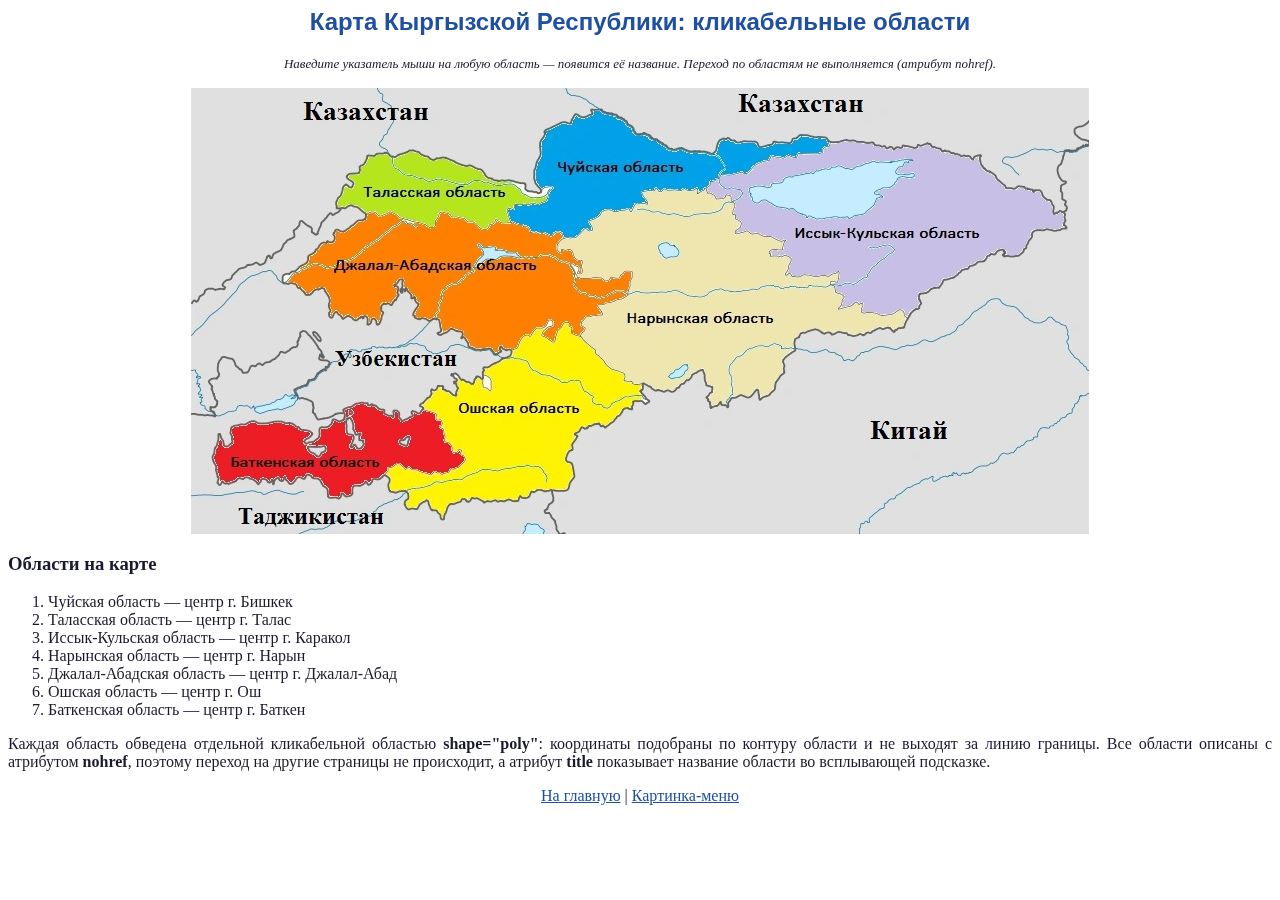
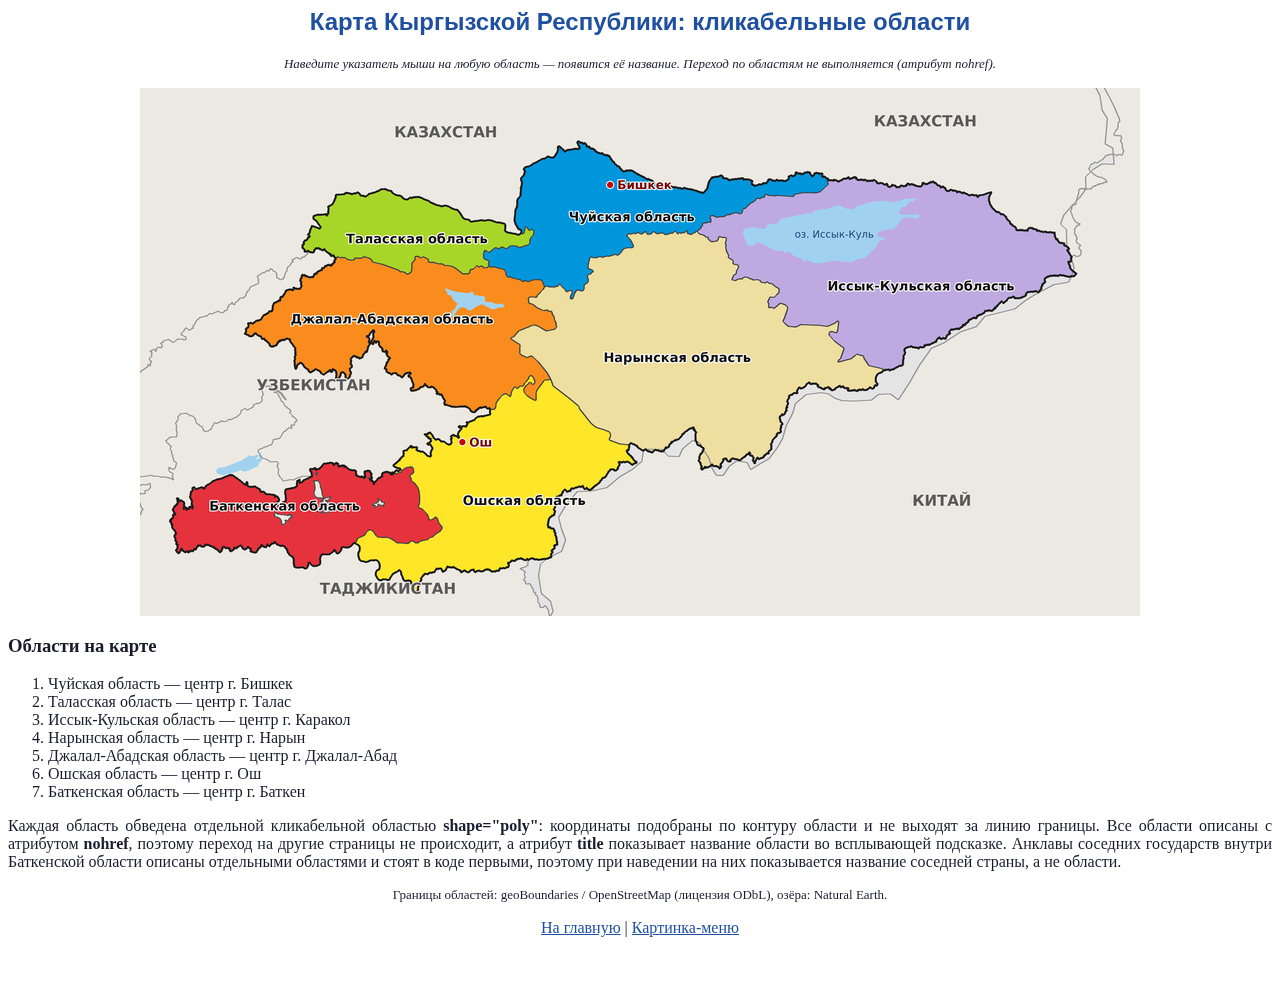
Task 6: redraw Kyrgyzstan map from real boundary data (geoBoundaries/OSM) — crisp borders, exact per-oblast poly coords, enclave areas

Changed region(s): [[0.0, 0.0622, 1.0, 0.9333], [0.25, 0.0, 0.75, 0.0311], [0.6562, 0.4667, 0.7812, 0.56]]

diff --git a/lab2/karta.html b/lab2/karta.html
@@ -8,16 +8,19 @@
 		Переход по областям не выполняется (атрибут nohref).</i></font></p>
 
 		<p align="center">
-			<img src="images/karta.jpg" width="898" height="446" usemap="#oblasti" border="0"
+			<img src="images/karta.jpg" width="1000" height="528" usemap="#oblasti" border="0"
 				alt="Карта Кыргызстана с областями" title="Карта Кыргызстана">
 			<map name="oblasti">
-				<area shape="poly" coords="320,124,342,140,384,146,392,138,399,139,397,130,412,120,439,119,452,112,451,101,508,101,526,84,553,83,576,66,625,63,632,55,609,50,597,57,566,61,561,56,531,54,524,69,479,64,442,48,430,34,405,25,358,45,348,93,352,98,363,97,360,112,327,118" nohref title="Чуйская область" alt="Чуйская область">
-				<area shape="poly" coords="149,117,162,114,175,122,185,121,189,125,203,122,240,138,245,125,255,122,282,131,293,138,302,130,315,132,313,120,322,114,351,111,336,111,320,98,308,99,307,95,298,98,288,84,254,72,239,74,218,66,205,72,197,69,180,71,168,88,160,88,165,99,155,100" nohref title="Таласская область" alt="Таласская область">
-				<area shape="poly" coords="519,100,542,107,553,133,547,146,594,153,581,164,601,168,598,183,648,183,652,217,667,213,689,225,712,220,716,232,733,203,776,175,821,168,842,143,873,138,872,116,862,122,849,103,814,101,787,79,788,70,739,56,694,61,677,52,640,53,630,67,583,70,559,87,531,87" nohref title="Иссык-Кульская область" alt="Иссык-Кульская область">
-				<area shape="poly" coords="364,148,372,147,368,165,387,170,380,176,385,192,441,183,434,208,409,217,388,247,451,299,481,300,512,279,520,314,562,299,572,305,608,242,662,245,701,239,712,230,706,222,668,225,663,215,647,221,649,208,636,197,644,186,595,187,598,171,577,167,590,155,546,146,539,110,513,103,453,105,456,117,418,123,388,151" nohref title="Нарынская область" alt="Нарынская область">
-				<area shape="poly" coords="102,192,120,204,136,198,143,220,189,230,190,215,214,189,230,213,228,228,247,227,254,240,269,239,281,256,305,261,324,257,355,230,362,237,352,245,360,250,371,232,387,244,388,231,406,224,404,214,430,207,436,185,416,194,381,191,376,175,387,174,363,164,367,147,307,136,290,144,254,127,238,142,181,127,148,145" nohref title="Джалал-Абадская область" alt="Джалал-Абадская область">
-				<area shape="poly" coords="446,299,430,296,374,238,363,256,345,243,333,251,322,273,295,283,301,304,292,303,288,293,283,299,269,295,267,309,249,302,235,316,254,332,256,351,273,361,276,372,254,387,207,377,199,384,202,398,220,399,218,416,238,408,251,423,270,407,324,409,342,398,373,398,379,384,371,367,380,344,403,332,413,335,445,310" nohref title="Ошская область" alt="Ошская область">
-				<area shape="poly" coords="269,370,249,354,240,326,208,335,204,326,195,330,172,318,162,321,165,341,175,352,170,363,157,360,152,335,131,342,123,355,134,355,137,363,129,370,112,356,116,345,100,337,45,340,45,356,35,361,31,354,26,368,36,391,101,391,120,384,146,406,202,374,237,384,254,382" nohref title="Баткенская область" alt="Баткенская область">
+				<area shape="poly" coords="174,392,175,399,173,404,174,407,177,410,182,411,182,412,181,412,180,414,182,416,183,417,180,419,180,422,177,424,182,426,183,422,184,426,190,424,190,423,192,423,193,421,191,419,192,418,186,417,188,416,188,414,187,413,189,413,191,408,185,409,184,410,180,395,177,392,175,392" nohref title="Анклав (Узбекистан)" alt="Анклав (Узбекистан)">
+				<area shape="poly" coords="232,416,233,418,235,418,235,420,238,418,239,417,243,419,245,414,242,413,241,412,238,410,238,413" nohref title="Анклав (Узбекистан)" alt="Анклав (Узбекистан)">
+				<area shape="poly" coords="134,426,135,429,140,431,141,433,141,435,142,437,145,436,146,433,148,433,150,430,151,431,152,430,153,427,151,427,150,426,148,427,138,426,135,424" nohref title="Анклав (Таджикистан)" alt="Анклав (Таджикистан)">
+				<area shape="poly" coords="350,178,363,180,366,183,368,188,380,191,383,193,386,192,389,193,395,191,401,191,403,193,405,198,408,197,414,198,421,195,427,203,430,202,433,202,433,205,431,209,432,210,436,202,443,202,443,197,447,194,447,187,452,183,447,180,448,175,450,169,454,169,460,168,463,168,474,166,478,166,484,160,492,159,493,158,491,154,486,148,488,145,494,144,495,145,497,144,502,145,505,143,507,143,508,146,510,145,513,143,517,145,521,144,527,146,533,144,535,142,538,145,539,144,541,144,544,144,547,142,548,143,548,145,552,145,560,140,562,137,562,135,570,133,570,128,571,127,577,129,584,128,595,124,601,125,602,121,610,115,617,110,624,109,624,107,625,106,634,107,636,106,653,108,654,105,664,104,676,104,679,103,687,96,686,93,687,91,684,89,682,89,681,86,676,86,672,89,669,85,665,85,663,87,657,86,653,89,651,88,650,89,649,92,646,94,639,94,637,93,634,94,630,92,627,96,615,99,611,97,611,93,609,93,603,92,602,91,589,93,586,91,582,91,581,88,573,90,570,94,568,101,563,106,544,101,542,101,529,99,523,99,511,93,506,92,497,87,493,84,487,83,483,84,479,79,474,77,469,69,455,64,453,62,446,59,445,56,443,56,439,54,441,60,439,62,428,63,425,64,419,59,419,63,415,70,412,70,408,69,385,81,386,85,382,91,383,95,382,107,378,112,375,132,377,136,379,140,382,142,383,145,385,138,387,139,390,142,392,141,394,143,394,146,391,151,391,156,389,157,380,160,371,159,367,161,362,160,359,161,355,161,350,165,345,163,344,170,350,173" nohref title="Чуйская область" alt="Чуйская область">
+				<area shape="poly" coords="163,159,165,161,166,163,168,162,173,164,176,159,179,159,183,162,185,161,191,166,191,167,194,167,195,169,198,168,201,169,205,169,211,171,213,171,215,169,221,169,224,168,229,169,233,174,243,176,268,185,270,184,271,175,274,171,274,169,276,168,279,168,281,169,283,168,289,171,289,173,294,174,303,175,305,177,313,177,323,185,328,185,329,184,329,182,333,180,336,177,339,178,342,177,344,179,347,179,348,178,348,174,343,170,343,164,344,162,350,163,355,159,359,160,362,158,367,160,369,157,373,157,380,159,388,156,393,144,391,142,389,143,386,140,385,144,383,147,381,146,378,147,368,145,364,142,364,136,349,133,331,134,323,131,317,123,306,118,302,119,297,118,279,110,270,110,266,112,263,111,260,109,255,107,251,104,245,102,241,102,230,106,226,109,220,108,218,105,212,107,206,106,204,107,197,107,193,117,189,119,189,125,187,128,186,128,186,127,174,128,174,131,178,133,182,139,180,141,173,139,170,145,169,147,171,149,165,153" nohref title="Таласская область" alt="Таласская область">
+				<area shape="poly" coords="558,143,561,146,568,149,569,151,571,153,577,152,579,148,587,149,586,156,587,158,587,159,589,169,594,172,594,175,598,176,599,178,597,186,595,188,593,191,595,192,605,188,614,191,620,192,622,194,625,194,627,193,633,195,640,200,639,206,635,210,630,210,629,214,629,219,634,219,641,215,647,218,648,220,648,223,644,233,649,238,656,238,662,236,687,237,698,232,699,235,697,245,691,244,690,246,695,253,705,260,701,271,699,273,711,270,717,265,724,267,729,277,742,280,744,281,749,281,750,282,762,277,763,268,764,265,763,262,765,260,771,258,779,259,780,258,783,259,784,256,789,256,795,253,799,249,800,249,801,250,803,249,805,250,806,247,809,245,808,244,811,241,819,240,822,236,824,236,826,234,828,231,834,229,836,229,837,227,843,225,845,222,852,222,861,213,864,214,868,209,873,208,876,210,881,209,885,207,887,203,896,202,898,203,900,201,902,196,904,194,904,191,907,188,921,186,929,188,933,188,935,186,929,180,927,174,930,173,931,169,926,162,928,161,924,158,923,156,918,155,917,152,915,151,914,146,897,144,896,142,890,141,887,143,876,143,875,139,870,136,869,134,863,127,861,127,859,125,856,124,851,120,848,112,848,109,850,105,840,108,838,110,836,108,829,108,825,106,819,104,817,105,816,104,812,104,811,103,810,104,807,104,803,99,800,100,793,94,788,97,783,96,781,99,772,97,770,98,768,96,766,99,762,98,760,100,756,100,753,98,749,100,747,98,747,97,745,98,741,96,737,96,734,93,733,94,727,94,725,93,717,93,715,90,711,92,708,90,704,91,698,94,695,93,694,93,688,93,688,97,681,104,677,105,664,105,655,107,653,109,636,108,634,109,626,107,625,110,618,111,611,116,604,122,602,126,596,125,584,129,577,130,571,128,571,135,563,136,563,138" nohref title="Иссык-Кульская область" alt="Иссык-Кульская область">
+				<area shape="poly" coords="372,250,381,256,381,266,387,269,392,267,399,273,408,284,414,298,439,317,440,320,452,335,456,338,470,344,471,347,470,352,480,355,489,356,491,354,497,357,502,362,506,360,512,364,516,361,523,363,525,359,528,358,531,353,538,351,542,346,548,341,554,339,554,341,557,344,556,352,558,356,561,357,565,360,564,364,561,367,560,373,563,379,562,381,564,378,568,379,572,376,574,377,577,377,580,379,580,376,583,372,583,371,586,370,589,373,592,370,600,371,609,363,611,365,611,367,613,367,615,370,614,373,617,369,618,369,619,370,623,369,624,367,628,365,630,361,630,356,632,351,635,348,637,345,640,344,640,338,641,336,639,333,639,329,642,326,644,326,646,322,645,320,647,316,646,313,648,307,654,304,656,304,656,302,658,299,663,299,666,295,669,294,671,295,677,295,679,297,679,298,684,300,684,299,688,298,693,301,699,297,701,298,703,297,705,299,709,299,709,302,715,301,717,302,723,300,724,301,726,301,730,298,732,300,735,297,736,297,735,293,735,288,738,285,743,282,728,278,723,269,717,267,712,271,697,274,703,261,694,254,688,246,689,244,690,243,696,244,698,234,688,239,662,237,655,240,648,239,642,233,646,222,646,219,641,216,634,221,629,221,628,219,627,213,629,209,630,208,634,208,638,204,638,201,632,197,627,195,625,196,622,195,620,193,613,193,605,190,596,193,591,192,591,190,593,186,595,185,598,179,593,176,592,173,588,170,585,157,586,150,580,149,578,153,571,154,568,152,567,150,560,147,557,144,551,147,548,147,546,144,545,146,540,145,538,147,535,144,533,146,527,147,520,145,517,146,514,145,511,147,508,147,505,144,502,147,497,146,495,147,494,146,488,147,494,158,493,160,485,161,479,168,475,167,463,170,460,169,454,171,451,170,449,180,453,182,454,184,449,188,449,194,445,198,444,203,442,204,437,203,433,212,430,211,431,203,426,204,420,197,418,199,414,200,407,199,405,200,397,210,390,210,390,214,398,220,402,221,408,221,409,223,412,223,417,236,418,239,416,241,406,244,394,238,379,244,374,250" nohref title="Нарынская область" alt="Нарынская область">
+				<area shape="poly" coords="106,245,111,248,116,245,118,247,121,248,123,250,125,250,132,258,136,257,137,253,140,252,144,251,147,250,151,251,151,253,156,260,157,267,155,273,156,279,156,277,160,274,162,274,170,283,176,280,180,282,184,286,189,281,191,282,192,281,194,281,197,283,197,290,199,289,201,284,203,283,206,286,207,290,209,288,210,285,209,281,211,279,210,276,210,271,214,267,218,269,222,269,224,264,226,263,229,256,228,253,228,251,226,248,228,247,232,242,234,242,235,244,234,246,234,250,232,253,232,254,233,255,232,254,234,252,240,254,240,257,243,260,243,263,247,262,248,264,248,266,251,270,246,280,247,281,248,284,252,286,253,284,257,285,258,286,262,288,265,285,270,284,272,285,269,288,273,291,274,297,274,300,272,301,272,302,278,300,285,295,289,299,291,298,294,299,298,304,298,305,302,306,306,313,306,316,315,318,325,318,334,324,340,319,346,318,348,320,349,319,351,321,354,321,355,315,362,307,366,305,370,308,373,300,375,298,377,300,379,298,382,297,390,287,392,287,393,288,396,295,393,297,390,295,386,299,385,303,387,307,395,312,395,305,397,301,404,292,409,291,406,285,392,269,391,269,387,270,380,267,379,266,379,257,371,252,370,250,373,248,378,242,394,236,399,238,407,242,414,240,416,239,411,224,408,224,407,223,401,223,388,215,388,211,389,209,390,208,396,209,403,200,402,194,400,193,394,193,389,195,386,193,383,194,380,192,367,190,366,188,365,183,363,182,349,179,348,180,344,181,342,179,339,180,337,179,334,182,331,183,331,185,329,187,322,187,312,179,304,178,302,177,294,175,288,175,288,172,283,170,280,171,278,169,276,170,276,172,273,176,273,181,272,184,267,187,243,177,233,175,229,171,224,169,222,171,215,171,214,173,211,173,205,171,198,170,196,172,196,174,192,178,188,178,186,179,183,181,182,183,175,187,173,190,169,190,163,188,161,192,162,194,162,199,160,202,158,202,154,201,153,203,150,202,146,203,144,209,141,210,141,213,135,216,132,224,130,224,129,226,124,228,122,232,116,234,113,236,111,236,109,236,109,240,107,241" nohref title="Джалал-Абадская область" alt="Джалал-Абадская область">
+				<area shape="poly" coords="216,455,221,459,219,466,221,472,226,473,232,472,236,472,239,473,241,478,240,481,237,484,237,487,239,491,243,491,249,491,252,485,259,481,262,483,265,492,271,492,272,496,275,498,275,502,276,503,282,488,284,485,287,485,294,483,297,480,301,480,303,483,305,482,308,478,312,479,314,478,322,483,324,482,328,484,333,481,335,483,339,482,342,483,348,480,352,483,355,483,358,482,360,480,367,479,368,474,369,474,371,472,374,472,378,470,381,470,385,472,392,470,399,471,407,470,410,469,410,466,412,464,411,462,414,460,414,457,416,456,413,442,413,441,408,440,407,437,408,430,413,426,414,423,413,421,418,412,415,410,416,408,421,407,422,403,425,401,428,403,430,402,431,400,433,400,443,397,445,400,447,399,450,401,458,395,462,389,465,388,470,381,476,381,479,377,478,373,487,373,492,376,495,374,487,365,486,363,488,362,488,358,480,357,469,353,470,347,469,345,455,340,452,337,439,321,438,318,413,299,410,292,405,293,398,302,397,305,397,313,393,312,386,308,384,305,383,301,389,294,391,294,393,296,394,294,392,289,390,288,383,299,380,299,377,301,375,300,374,301,371,309,369,309,366,307,363,308,357,316,356,320,355,322,351,322,351,327,343,329,338,329,335,333,328,335,327,339,323,339,319,346,320,350,318,350,313,348,312,348,312,355,311,357,307,357,298,352,295,353,289,345,288,347,287,347,292,351,292,354,289,356,291,356,293,360,291,365,292,369,287,368,282,364,281,365,276,363,276,360,271,360,267,363,264,363,264,368,254,377,261,380,261,382,259,384,261,383,266,379,272,378,274,380,274,385,270,388,272,393,275,394,279,399,280,403,280,413,279,419,283,421,287,425,290,431,292,431,295,428,298,430,303,440,301,444,293,450,288,452,280,454,278,456,275,456,271,454,269,456,265,456,257,456,249,451,237,450,233,444,229,443,225,448,218,451" nohref title="Ошская область" alt="Ошская область">
+				<area shape="poly" coords="31,433,33,436,33,439,37,445,35,449,38,454,37,456,39,457,37,462,39,464,41,460,45,463,47,462,48,463,53,462,54,460,55,461,58,457,60,457,63,458,66,456,73,458,80,463,83,458,85,458,86,460,89,459,91,462,93,461,94,459,96,459,101,457,105,461,108,458,109,458,112,460,112,463,115,464,122,456,126,458,127,456,129,457,135,453,138,456,145,458,149,465,154,470,155,478,163,478,165,480,166,479,168,474,171,475,173,477,179,476,179,469,181,466,189,466,194,461,198,465,200,462,201,459,209,458,213,454,215,454,217,450,224,447,229,441,232,442,238,448,250,449,258,454,268,454,270,452,278,454,280,453,287,451,300,443,301,440,296,430,292,433,289,432,286,426,282,422,278,420,278,404,277,400,274,396,271,394,268,388,273,384,273,381,271,380,266,380,263,383,262,385,258,386,251,387,249,385,246,385,244,385,243,389,239,391,234,397,232,394,229,391,231,389,231,387,229,384,226,384,226,389,224,391,216,388,215,383,209,382,203,378,199,379,197,376,193,378,193,377,193,376,190,375,184,376,180,381,177,383,175,381,171,382,172,384,173,389,164,393,162,395,159,396,158,393,157,399,154,401,147,402,146,414,144,415,144,417,142,418,136,417,132,421,131,418,138,412,136,409,135,410,134,408,126,407,123,405,120,404,119,402,115,399,108,399,106,397,105,398,93,388,90,388,74,394,67,398,64,401,62,400,56,402,53,400,54,403,52,404,51,409,53,413,53,420,52,421,50,419,50,421,47,423,45,421,44,422,43,414,41,413,39,414,38,416,34,421,36,426,34,427,34,430" nohref title="Баткенская область" alt="Баткенская область">
 			</map>
 		</p>
 
@@ -34,7 +37,10 @@
 		<p align="justify">Каждая область обведена отдельной кликабельной областью <b>shape="poly"</b>:
 		координаты подобраны по контуру области и не выходят за линию границы.
 		Все области описаны с атрибутом <b>nohref</b>, поэтому переход на другие страницы не происходит,
-		а атрибут <b>title</b> показывает название области во всплывающей подсказке.</p>
+		а атрибут <b>title</b> показывает название области во всплывающей подсказке.
+		Анклавы соседних государств внутри Баткенской области описаны отдельными областями и стоят в коде первыми,
+		поэтому при наведении на них показывается название соседней страны, а не области.</p>
+		<p align="center"><font size="2">Границы областей: geoBoundaries / OpenStreetMap (лицензия ODbL), озёра: Natural Earth.</font></p>
 
 		<p align="center"><a href="home.html">На главную</a> | <a href="menu.html">Картинка-меню</a></p>
 	</body>
